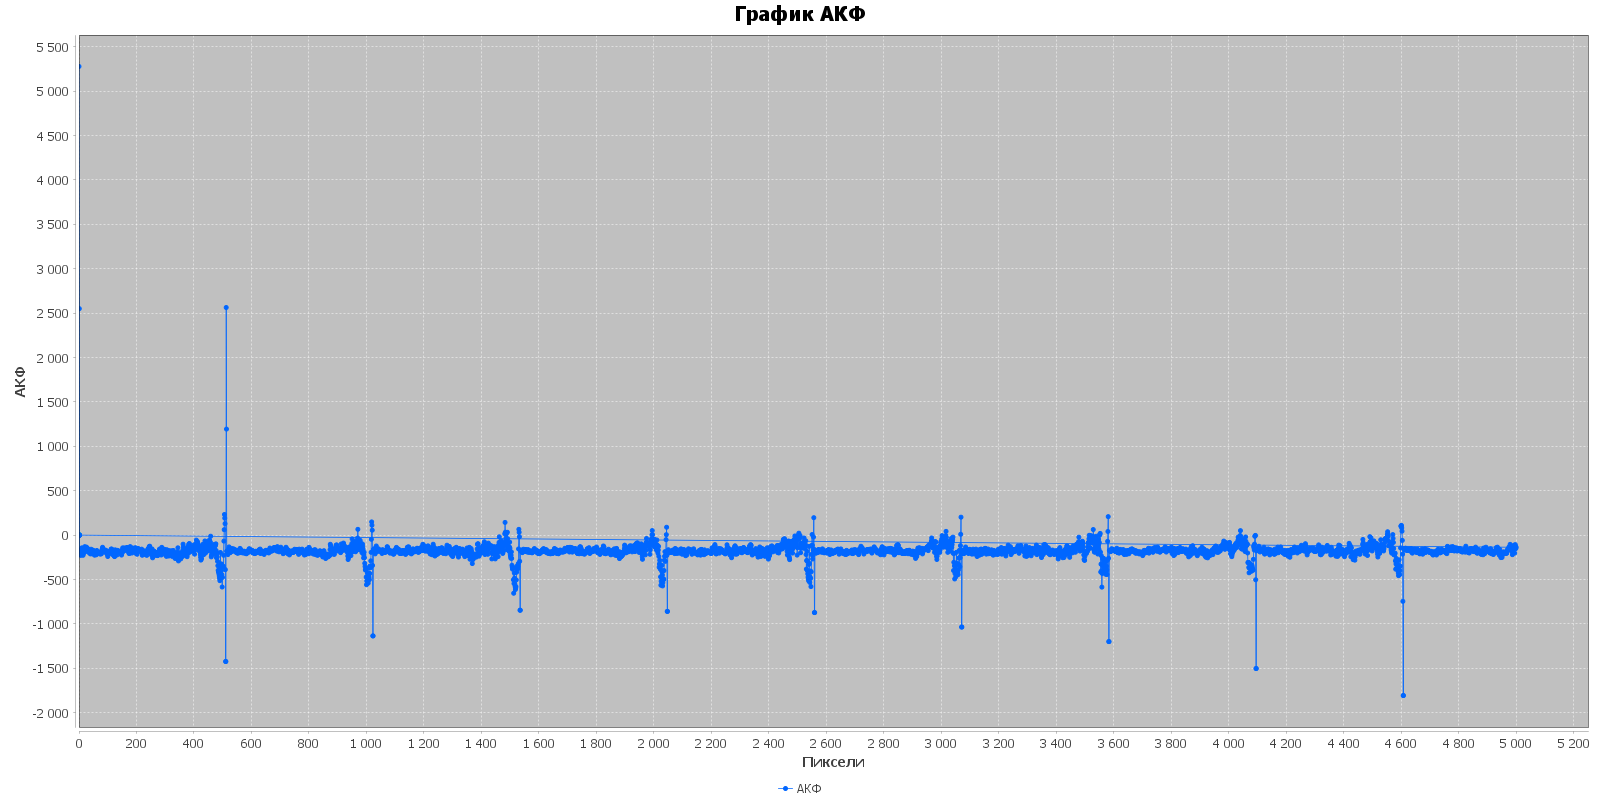
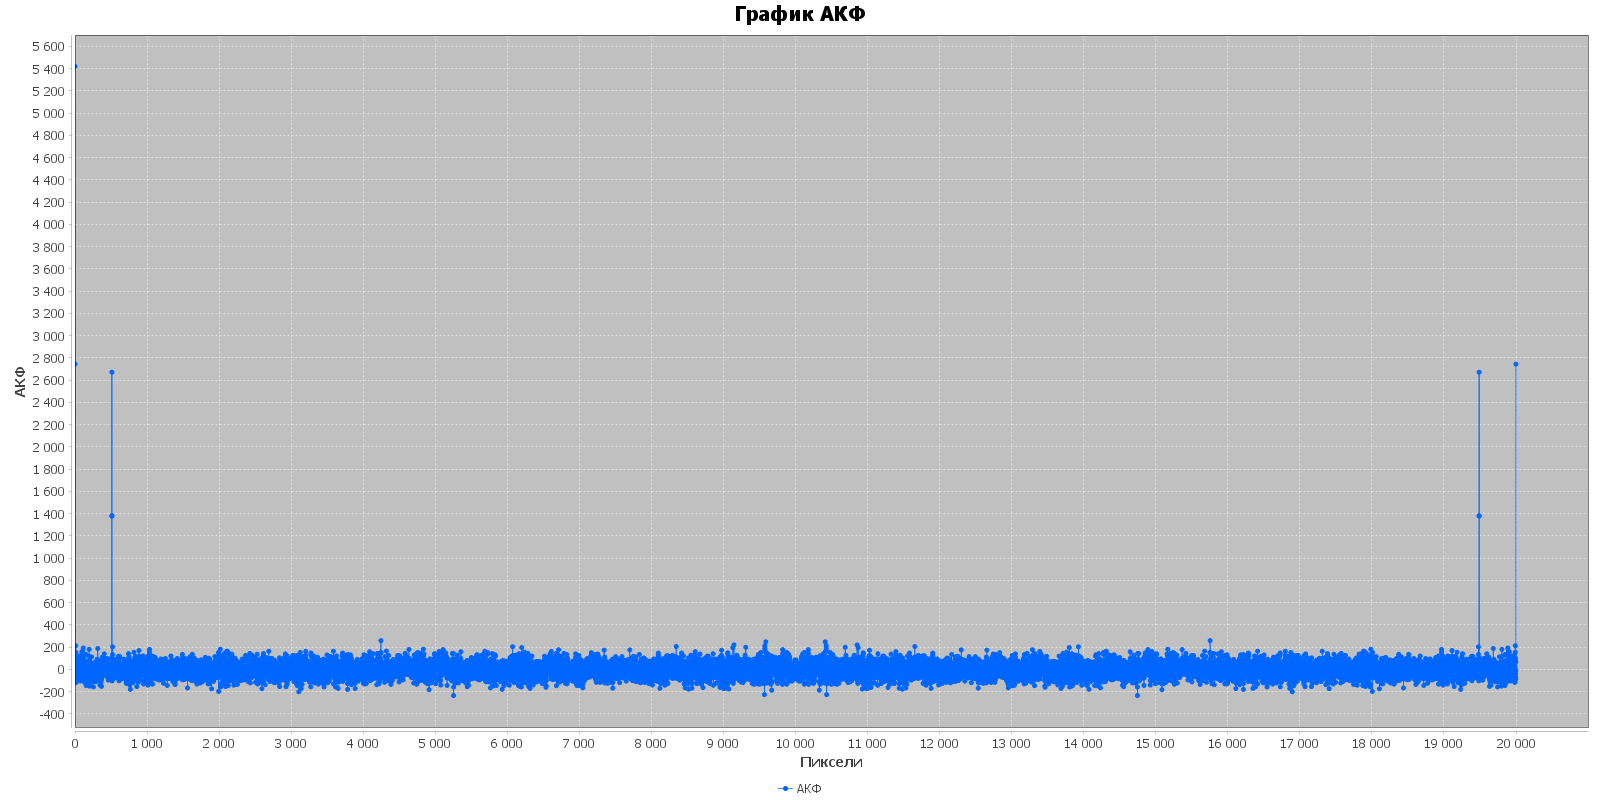
довёл до ума

diff --git a/src/main/java/coding/contr_perm/LogicalOperations.java b/src/main/java/coding/contr_perm/LogicalOperations.java
@@ -83,7 +83,7 @@ public class LogicalOperations {
         return output;
     }
 
-    public static String permutation8(String input, String u) {
+    public static String permutation8var1(String input, String u) {
         String uExt = extend8(u, u);
         String output = "";
         // Vector<String> vector = new Vector<>(input.length());
@@ -167,6 +167,95 @@ public class LogicalOperations {
         toInt(input.charAt(5)) * (toInt(uExt.charAt(2))) * (toInt(uExt.charAt(7))) * not(toInt(uExt.charAt(11))) +  
         toInt(input.charAt(6)) * (toInt(uExt.charAt(3)))* not(toInt(uExt.charAt(7))) * not(toInt(uExt.charAt(11))) +  
         toInt(input.charAt(7)) * not(toInt(uExt.charAt(3))) * not(toInt(uExt.charAt(7))) * not(toInt(uExt.charAt(11)));
+
+        output = String.valueOf(b0) + String.valueOf(b1) + String.valueOf(b2) + String.valueOf(b3) + String.valueOf(b4) + String.valueOf(b5) + String.valueOf(b6) + String.valueOf(b7);
+
+        return output;
+    }
+
+    public static String permutation8var2(String input, String u) {
+        String uExt = extend8(u, u);
+        String output = "";
+
+        int b0 = 
+        toInt(input.charAt(0)) * not(toInt(uExt.charAt(0))) * not(toInt(uExt.charAt(5))) * not(toInt(uExt.charAt(10))) + 
+        toInt(input.charAt(1)) * (toInt(uExt.charAt(0))) * not(toInt(uExt.charAt(5))) * not(toInt(uExt.charAt(10))) + 
+        toInt(input.charAt(2)) * (toInt(uExt.charAt(1))) * (toInt(uExt.charAt(4))) * (toInt(uExt.charAt(10))) + 
+        toInt(input.charAt(3)) * not(toInt(uExt.charAt(1))) * (toInt(uExt.charAt(4))) * (toInt(uExt.charAt(10))) + 
+        toInt(input.charAt(4)) * not(toInt(uExt.charAt(2))) * not(toInt(uExt.charAt(4))) * (toInt(uExt.charAt(10))) + 
+        toInt(input.charAt(5)) * (toInt(uExt.charAt(2))) * not(toInt(uExt.charAt(4)) ) * (toInt(uExt.charAt(10))) +  
+        toInt(input.charAt(6)) * (toInt(uExt.charAt(3))) * (toInt(uExt.charAt(5))) * not(toInt(uExt.charAt(10))) +  
+        toInt(input.charAt(7)) * not(toInt(uExt.charAt(3))) * (toInt(uExt.charAt(5))) * not(toInt(uExt.charAt(10)));
+
+        int b1 = 
+        toInt(input.charAt(0)) * (toInt(uExt.charAt(0))) * not(toInt(uExt.charAt(7))) * not(toInt(uExt.charAt(11))) + 
+        toInt(input.charAt(1)) * not(toInt(uExt.charAt(0))) * not(toInt(uExt.charAt(7))) * not(toInt(uExt.charAt(11))) + 
+        toInt(input.charAt(2)) * not(toInt(uExt.charAt(1))) * (toInt(uExt.charAt(6))) * (toInt(uExt.charAt(11))) + 
+        toInt(input.charAt(3)) * (toInt(uExt.charAt(1))) * (toInt(uExt.charAt(6))) * (toInt(uExt.charAt(11))) + 
+        toInt(input.charAt(4)) * (toInt(uExt.charAt(2))) * not(toInt(uExt.charAt(6))) * (toInt(uExt.charAt(11))) + 
+        toInt(input.charAt(5)) * not(toInt(uExt.charAt(2))) * not(toInt(uExt.charAt(6)) ) * (toInt(uExt.charAt(11))) +  
+        toInt(input.charAt(6)) * not(toInt(uExt.charAt(3))) * (toInt(uExt.charAt(7))) * not(toInt(uExt.charAt(11))) +  
+        toInt(input.charAt(7)) * (toInt(uExt.charAt(3))) * (toInt(uExt.charAt(7))) * not(toInt(uExt.charAt(11)));
+
+        int b2 = 
+        toInt(input.charAt(0)) * (toInt(uExt.charAt(0))) * (toInt(uExt.charAt(7))) * (toInt(uExt.charAt(8))) + 
+        toInt(input.charAt(1)) * not(toInt(uExt.charAt(0))) * (toInt(uExt.charAt(7))) * (toInt(uExt.charAt(8))) + 
+        toInt(input.charAt(2)) * not(toInt(uExt.charAt(1))) * not(toInt(uExt.charAt(6))) * not(toInt(uExt.charAt(8))) + 
+        toInt(input.charAt(3)) * (toInt(uExt.charAt(1))) * not(toInt(uExt.charAt(6))) * not(toInt(uExt.charAt(8))) + 
+        toInt(input.charAt(4)) * (toInt(uExt.charAt(2))) * (toInt(uExt.charAt(6))) * not(toInt(uExt.charAt(8))) + 
+        toInt(input.charAt(5)) * not(toInt(uExt.charAt(2))) * (toInt(uExt.charAt(6)) ) * not(toInt(uExt.charAt(8))) +  
+        toInt(input.charAt(6)) * not(toInt(uExt.charAt(3))) * not(toInt(uExt.charAt(7))) * (toInt(uExt.charAt(8))) +  
+        toInt(input.charAt(7)) * (toInt(uExt.charAt(3))) * not(toInt(uExt.charAt(7))) * (toInt(uExt.charAt(8)));
+
+        int b3 = 
+        toInt(input.charAt(0)) * not(toInt(uExt.charAt(0))) * (toInt(uExt.charAt(5))) * (toInt(uExt.charAt(9))) + 
+        toInt(input.charAt(1)) * (toInt(uExt.charAt(0))) * (toInt(uExt.charAt(5))) * (toInt(uExt.charAt(9))) + 
+        toInt(input.charAt(2)) * (toInt(uExt.charAt(1))) * not(toInt(uExt.charAt(4))) * not(toInt(uExt.charAt(9))) + 
+        toInt(input.charAt(3)) * not(toInt(uExt.charAt(1))) * not(toInt(uExt.charAt(4))) * not(toInt(uExt.charAt(9))) + 
+        toInt(input.charAt(4)) * not(toInt(uExt.charAt(2))) * (toInt(uExt.charAt(4))) * not(toInt(uExt.charAt(9))) + 
+        toInt(input.charAt(5)) * (toInt(uExt.charAt(2))) * (toInt(uExt.charAt(4)) ) * not(toInt(uExt.charAt(9))) +  
+        toInt(input.charAt(6)) * (toInt(uExt.charAt(3))) * not(toInt(uExt.charAt(5))) * (toInt(uExt.charAt(9))) +  
+        toInt(input.charAt(7)) * not(toInt(uExt.charAt(3))) * not(toInt(uExt.charAt(5))) * (toInt(uExt.charAt(9)));
+
+        int b4 = 
+        toInt(input.charAt(0)) * not(toInt(uExt.charAt(0))) * not(toInt(uExt.charAt(5))) * (toInt(uExt.charAt(10))) + 
+        toInt(input.charAt(1)) * (toInt(uExt.charAt(0))) * not(toInt(uExt.charAt(5))) * (toInt(uExt.charAt(10))) + 
+        toInt(input.charAt(2)) * (toInt(uExt.charAt(1))) * (toInt(uExt.charAt(4))) * not(toInt(uExt.charAt(10))) + 
+        toInt(input.charAt(3)) * not(toInt(uExt.charAt(1))) * (toInt(uExt.charAt(4))) * not(toInt(uExt.charAt(10))) + 
+        toInt(input.charAt(4)) * not(toInt(uExt.charAt(2))) * not(toInt(uExt.charAt(4))) * not(toInt(uExt.charAt(10))) + 
+        toInt(input.charAt(5)) * (toInt(uExt.charAt(2))) * not(toInt(uExt.charAt(4)) ) * not(toInt(uExt.charAt(10))) +  
+        toInt(input.charAt(6)) * (toInt(uExt.charAt(3))) * (toInt(uExt.charAt(5))) * (toInt(uExt.charAt(10))) +  
+        toInt(input.charAt(7)) * not(toInt(uExt.charAt(3))) * (toInt(uExt.charAt(5))) * (toInt(uExt.charAt(10)));
+
+        int b5 = 
+        toInt(input.charAt(0)) * (toInt(uExt.charAt(0))) * not(toInt(uExt.charAt(7))) * (toInt(uExt.charAt(11))) + 
+        toInt(input.charAt(1)) * not(toInt(uExt.charAt(0))) * not(toInt(uExt.charAt(7))) * (toInt(uExt.charAt(11))) + 
+        toInt(input.charAt(2)) * not(toInt(uExt.charAt(1))) * (toInt(uExt.charAt(6))) * not(toInt(uExt.charAt(11))) + 
+        toInt(input.charAt(3)) * (toInt(uExt.charAt(1))) * (toInt(uExt.charAt(6))) * not(toInt(uExt.charAt(11))) + 
+        toInt(input.charAt(4)) * (toInt(uExt.charAt(2))) * not(toInt(uExt.charAt(6))) * not(toInt(uExt.charAt(11))) + 
+        toInt(input.charAt(5)) * not(toInt(uExt.charAt(2))) * not(toInt(uExt.charAt(6)) ) * not(toInt(uExt.charAt(11))) +  
+        toInt(input.charAt(6)) * not(toInt(uExt.charAt(3))) * (toInt(uExt.charAt(7))) * (toInt(uExt.charAt(11))) +  
+        toInt(input.charAt(7)) * (toInt(uExt.charAt(3))) * (toInt(uExt.charAt(7))) * (toInt(uExt.charAt(11)));
+
+        int b6 = 
+        toInt(input.charAt(0)) * (toInt(uExt.charAt(0))) * (toInt(uExt.charAt(7))) * not(toInt(uExt.charAt(8))) + 
+        toInt(input.charAt(1)) * not(toInt(uExt.charAt(0))) * (toInt(uExt.charAt(7))) * not(toInt(uExt.charAt(8))) + 
+        toInt(input.charAt(2)) * not(toInt(uExt.charAt(1))) * not(toInt(uExt.charAt(6))) * (toInt(uExt.charAt(8))) + 
+        toInt(input.charAt(3)) * (toInt(uExt.charAt(1))) * not(toInt(uExt.charAt(6))) * (toInt(uExt.charAt(8))) + 
+        toInt(input.charAt(4)) * (toInt(uExt.charAt(2))) * (toInt(uExt.charAt(6))) * (toInt(uExt.charAt(8))) + 
+        toInt(input.charAt(5)) * not(toInt(uExt.charAt(2))) * (toInt(uExt.charAt(6)) ) * (toInt(uExt.charAt(8))) +  
+        toInt(input.charAt(6)) * not(toInt(uExt.charAt(3))) * not(toInt(uExt.charAt(7))) * not(toInt(uExt.charAt(8))) +  
+        toInt(input.charAt(7)) * (toInt(uExt.charAt(3))) * not(toInt(uExt.charAt(7))) * not(toInt(uExt.charAt(8)));
+
+        int b7 = 
+        toInt(input.charAt(0)) * not(toInt(uExt.charAt(0))) * (toInt(uExt.charAt(5))) * not(toInt(uExt.charAt(9))) + 
+        toInt(input.charAt(1)) * (toInt(uExt.charAt(0))) * (toInt(uExt.charAt(5))) * not(toInt(uExt.charAt(9))) + 
+        toInt(input.charAt(2)) * (toInt(uExt.charAt(1))) * not(toInt(uExt.charAt(4))) * (toInt(uExt.charAt(9))) + 
+        toInt(input.charAt(3)) * not(toInt(uExt.charAt(1))) * not(toInt(uExt.charAt(4))) * (toInt(uExt.charAt(9))) + 
+        toInt(input.charAt(4)) * not(toInt(uExt.charAt(2))) * (toInt(uExt.charAt(4))) * (toInt(uExt.charAt(9))) + 
+        toInt(input.charAt(5)) * (toInt(uExt.charAt(2))) * (toInt(uExt.charAt(4)) ) * (toInt(uExt.charAt(9))) +  
+        toInt(input.charAt(6)) * (toInt(uExt.charAt(3))) * not(toInt(uExt.charAt(5))) * not(toInt(uExt.charAt(9))) +  
+        toInt(input.charAt(7)) * not(toInt(uExt.charAt(3))) * not(toInt(uExt.charAt(5))) * not(toInt(uExt.charAt(9)));
 
         output = String.valueOf(b0) + String.valueOf(b1) + String.valueOf(b2) + String.valueOf(b3) + String.valueOf(b4) + String.valueOf(b5) + String.valueOf(b6) + String.valueOf(b7);
 

diff --git a/src/main/java/graphics/AutoCorrelation.java b/src/main/java/graphics/AutoCorrelation.java
@@ -1,0 +1,99 @@
+package graphics;
+
+import java.awt.BasicStroke;
+import java.awt.Color;
+import java.awt.geom.Ellipse2D;
+import java.awt.image.BufferedImage;
+import java.io.File;
+import java.io.IOException;
+import java.lang.reflect.Array;
+import java.util.Arrays;
+
+import org.jfree.chart.ChartFactory;
+import org.jfree.chart.ChartUtils;
+import org.jfree.chart.JFreeChart;
+import org.jfree.chart.plot.PlotOrientation;
+import org.jfree.chart.plot.XYPlot;
+import org.jfree.chart.renderer.xy.XYLineAndShapeRenderer;
+import org.jfree.data.xy.XYSeries;
+import org.jfree.data.xy.XYSeriesCollection;
+
+import image.Image;
+
+public class AutoCorrelation {
+
+    public static void autoCorrelation(String inputFilePath, String outputFilePath) {
+        // Загрузите изображение
+        BufferedImage image = Image.loadAndReadImage(inputFilePath);
+
+        // Преобразуйте изображение в массив пикселей
+        int[] pixels = Image.image8bitToPixels(image);
+
+        // Вычислите АКФ изображения
+        double[] autocorr = autocorrelation(pixels);
+
+        // Создайте объект XYSeriesCollection
+        XYSeriesCollection dataset = new XYSeriesCollection();
+
+        // Добавьте в коллекцию серию данных АКФ
+        XYSeries series = new XYSeries("АКФ");
+        for (int i = 0; i < autocorr.length; i++) {
+            series.add(i, autocorr[i]);
+        }
+        dataset.addSeries(series);
+
+        JFreeChart chart = ChartFactory.createXYLineChart(
+                "График АКФ", "Пиксели", "АКФ", dataset, PlotOrientation.VERTICAL, true, true, false);
+
+        XYPlot plot = (XYPlot) chart.getPlot();
+
+        // Создайте XYLineAndShapeRenderer
+        XYLineAndShapeRenderer renderer = new XYLineAndShapeRenderer(true, true);
+
+        // Установите цвет и толщину линий
+        // мой цвет
+        renderer.setSeriesPaint(0, new Color(0, 102, 255, 255));
+        // renderer.setSeriesPaint(0, Color.red);
+
+        renderer.setSeriesShapesVisible(0, true);
+        renderer.setSeriesShape(0, new Ellipse2D.Double(-2.0, -2.0, 4.0, 4.0));
+        renderer.setSeriesStroke(0, new BasicStroke(0.8f));
+
+        plot.setRenderer(renderer);
+
+        try {
+            ChartUtils.saveChartAsPNG(new File(outputFilePath), chart, 1600, 800);
+        } catch (IOException e) {
+            e.printStackTrace();
+        }
+    }
+
+    private static double[] autocorrelation(int[] pixels) {
+        final int count = pixels.length;
+        // int[] pix2 = new int[3000];
+        int[] pix2 = Arrays.copyOfRange(pixels, 0, count);
+
+        double[] autocorr = new double[count];
+
+        for (int delay = 0; delay < count; delay++) {
+            double correlation = 0.0;
+            for (int i = 0; i < count; i++) {
+                correlation += (pix2[i] * pix2[(i + delay) % count]);
+            }
+            correlation /= count;
+            autocorr[delay] = correlation;
+        }
+
+        double avg = 0;
+        for (double value : autocorr) {
+            avg += value;
+        }
+        avg /= autocorr.length;
+
+        for (int i = 0; i < autocorr.length; i++) {
+            autocorr[i] -= avg;
+        }
+
+        return autocorr;
+    }
+}

diff --git a/src/main/java/graphics/DataGraphics.java b/src/main/java/graphics/DataGraphics.java
@@ -2,17 +2,22 @@ package graphics;
 
 public class DataGraphics {
     public static void initialDataGraphics(String inputFilePath){
-        AutoCorrelationChart.autoCorrelationChart(inputFilePath, "graphics/initial/autoCorrelationChart.png");
+        // AutoCorrelationChart.autoCorrelationChart(inputFilePath, "graphics/initial/autoCorrelationChart.png");
+        AutoCorrelation.autoCorrelation(inputFilePath, "graphics/initial/autoCorrelationChart.png");
+
         BrightnessHistogram.brightnessHistogram(inputFilePath, "graphics/initial/brightnessHistogram.png");
         CheckerboardTest.checkerboardTest(inputFilePath, "graphics/initial/CheckerboardTest.png");
     }
     public static void encryptDataGraphics(String inputFilePath){
-        AutoCorrelationChart.autoCorrelationChart(inputFilePath, "graphics/encrypt/autoCorrelationChart.png");
+        // AutoCorrelationChart.autoCorrelationChart(inputFilePath, "graphics/encrypt/autoCorrelationChart.png");
+        AutoCorrelation.autoCorrelation(inputFilePath, "graphics/encrypt/autoCorrelationChart.png");
+
         BrightnessHistogram.brightnessHistogram(inputFilePath, "graphics/encrypt/brightnessHistogram.png");
         CheckerboardTest.checkerboardTest(inputFilePath, "graphics/encrypt/CheckerboardTest.png");
     }
     public static void decryptDataGraphics(String inputFilePath){
-        AutoCorrelationChart.autoCorrelationChart(inputFilePath, "graphics/decrypt/autoCorrelationChart.png");
+        // AutoCorrelationChart.autoCorrelationChart(inputFilePath, "graphics/decrypt/autoCorrelationChart.png");
+        AutoCorrelation.autoCorrelation(inputFilePath, "graphics/decrypt/autoCorrelationChart.png");
         BrightnessHistogram.brightnessHistogram(inputFilePath, "graphics/decrypt/brightnessHistogram.png");
         CheckerboardTest.checkerboardTest(inputFilePath, "graphics/decrypt/CheckerboardTest.png");
     }

diff --git a/src/main/java/image/Image.java b/src/main/java/image/Image.java
@@ -1,4 +1,5 @@
 package image;
+
 import javax.imageio.ImageIO;
 import java.awt.image.BufferedImage;
 import java.io.File;
@@ -7,10 +8,11 @@ import java.io.IOException;
 public abstract class Image {
     /**
      * Сохраняет изображение по указанному пути
-     * @param image изображение
+     * 
+     * @param image    изображение
      * @param filePath путь для сохранения
      */
-    public static void saveImage(BufferedImage image, String filePath){
+    public static void saveImage(BufferedImage image, String filePath) {
         try {
             ImageIO.write(image, "png", new File(filePath));
         } catch (IOException e) {
@@ -20,6 +22,7 @@ public abstract class Image {
 
     /**
      * Возвращает изображение по указанному пути
+     * 
      * @param filePath путь до изображения
      */
     public static BufferedImage loadAndReadImage(String filePath) {
@@ -29,6 +32,21 @@ public abstract class Image {
             e.printStackTrace();
             return null;
         }
+    }
+
+    public static int[] image8bitToPixels(BufferedImage image) {
+        int width = image.getWidth();
+        int height = image.getHeight();
+        int[] pixels = new int[width * height];
+        
+        for (int y = 0; y < height; y++) {
+            for (int x = 0; x < width; x++) {
+                int rgb = image.getRGB(x, y) & 0xFF;
+                pixels[y * width + x] = rgb;
+            }
+        }
+        
+        return pixels;
     }
 
     public static BufferedImage[] loadBlocks(String dirAndPrefix, int numBlocks) {
@@ -42,4 +60,3 @@ public abstract class Image {
         return blocks;
     }
 }
-

diff --git a/src/main/java/coding/contr_perm/Encrypt.java b/src/main/java/coding/contr_perm/Encrypt.java
@@ -33,7 +33,7 @@ public class Encrypt {
      */
     private static Block step2(Block block) {
         if (block.getLeft().length() == 8) {
-            block.setLeft(LogicalOperations.permutation8(block.getLeft(), block.getRight()));
+            block.setLeft(LogicalOperations.permutation8var2(block.getLeft(), block.getRight()));
         }
         return block;
     }
@@ -58,7 +58,7 @@ public class Encrypt {
      */
     private static Block step4(Block block) {
         if (block.getLeft().length() == 8) {
-            block.setRight(LogicalOperations.permutation8(block.getRight(), block.getLeft()));
+            block.setRight(LogicalOperations.permutation8var2(block.getRight(), block.getLeft()));
         }
         return block;
     }

diff --git a/src/main/java/Main.java b/src/main/java/Main.java
@@ -12,8 +12,12 @@ public class Main {
 
     public static void main(String[] args) {
 
-        DataGraphics.encryptDataGraphics("resources/img.png");
-        // encrypt();
+        // DataGraphics.encryptDataGraphics("resources/img.png");
+
+        // DataGraphics.initialDataGraphics("resources/image2-bw.png");
+        // DataGraphics.encryptDataGraphics("resources/image2-encrypt.png");
+        
+        encrypt();
         // decrypt();
     }
 

diff --git a/src/main/java/graphics/AutoCorrelationChart.java b/src/main/java/graphics/AutoCorrelationChart.java
@@ -75,7 +75,7 @@ private static double[][] calculateAutoCorrelation(BufferedImage image) {
     double[][] autoCorrelationData = new double[2][width * height];
 
     // Calculate auto-correlation for each lag
-    for (int lag = 0; lag < 5000; lag++) {
+    for (int lag = 0; lag < width * height; lag++) {
         double sum = 0;
         int xLag = lag % width;
         int yLag = lag / width;
